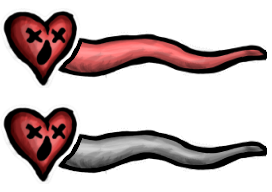
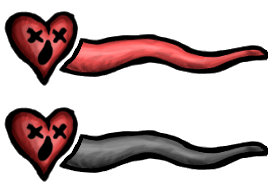
Health bar finished

diff --git a/js/game/status.js b/js/game/status.js
@@ -50,6 +50,15 @@ _status.draw = function() {
         t, 96, w-t, 96,
         x + t*BAR_SCALE, y, (w-t)*BAR_SCALE, 96*BAR_SCALE, 0);
 
+    // If hurt, make "whiter"
+    if(objman.heart.hurtTimer > 0.0) {
+
+        let s = Math.abs(Math.sin(objman.heart.hurtTimer / HEART_HURT_MAX 
+            * (Math.PI*2 * HEART_HURT_MOD)));
+        let t = 1 + 2*s;
+        graph.set_color(t,t,t, ALPHA );
+    }
+
     // Draw health bar (=red)
     graph.draw_scaled_bitmap_region(assets.bitmaps.healthBar,
         0, 0, t, 96,
